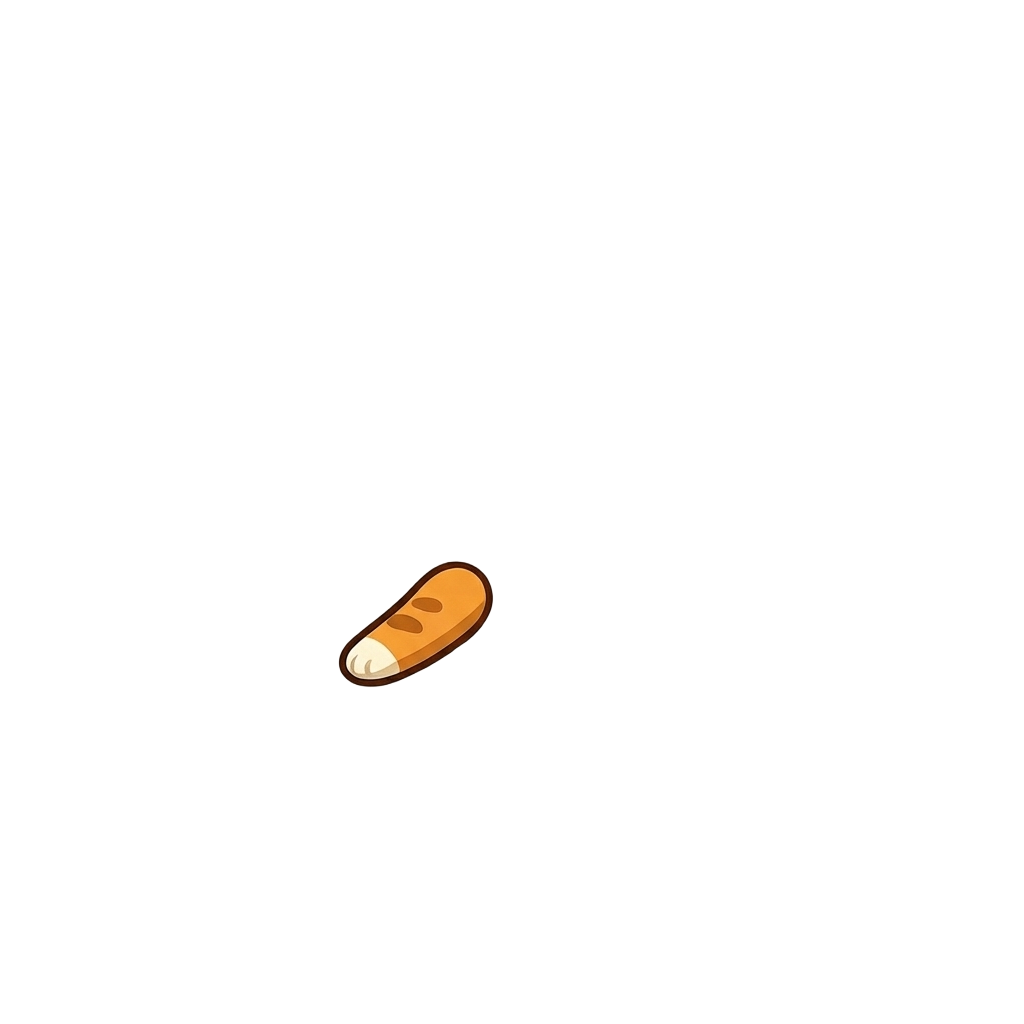
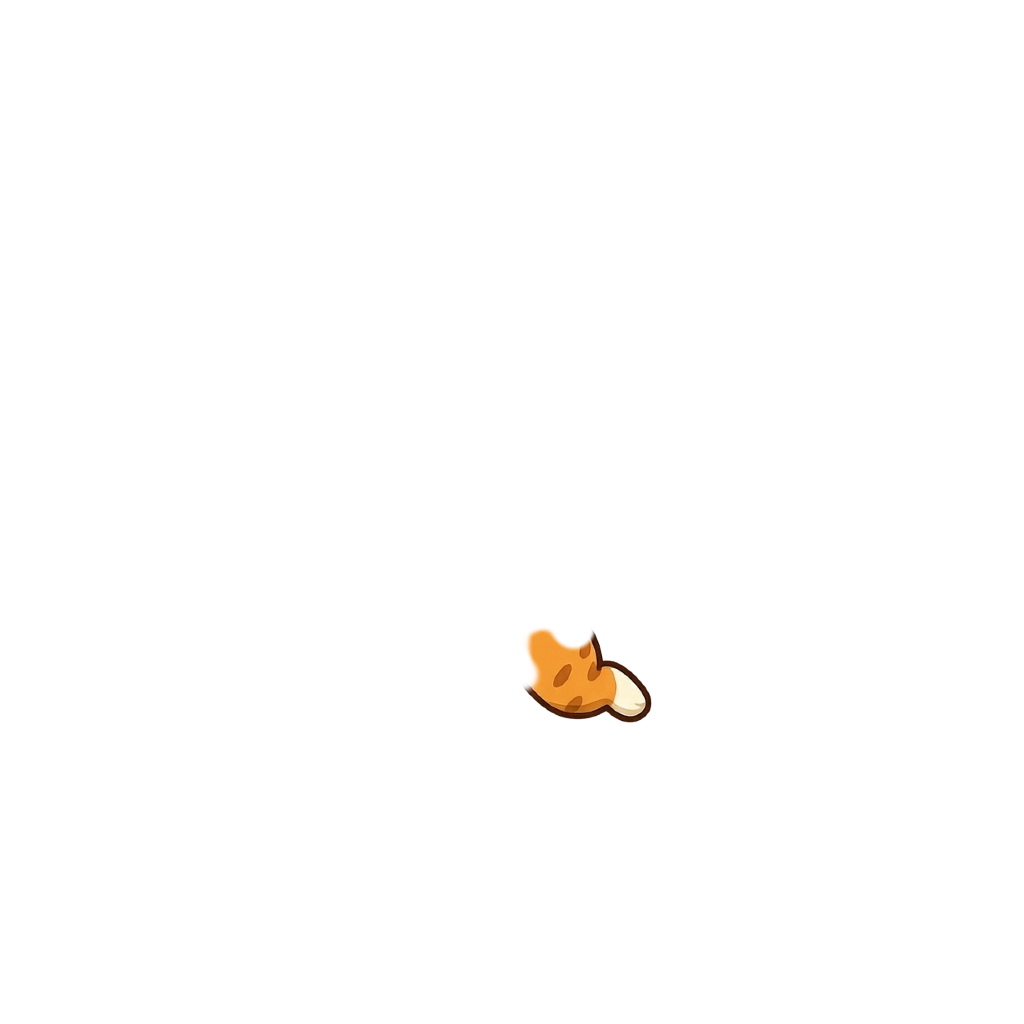
feat: Pet 바람개비 움직임

Changed region(s): [[0.3125, 0.5312, 0.6562, 0.7188]]

diff --git a/src/pages/main/MainPage.tsx b/src/pages/main/MainPage.tsx
@@ -28,6 +28,7 @@ import BodyRecordPrompt from '@components/BodyRecordPrompt';
 import styles from '@styles/MainPage.styles';
 import mainBackGround from '@assets/images/mainBackGround_gym.png'; // MAIN 화면 배경
 import mainBackGroundWide from '@assets/images/mainBackground_track_wide.png';
+import runLegSwirl from '@assets/pet/etc/swirl.png';
 import { SCREEN_WIDTH } from '@styles/dimensions';
 import MapView from 'react-native-maps';
 import useGpsSession, { type GpsSessionSummary } from '@hooks/useGpsSession';
@@ -51,6 +52,7 @@ const KCAL_PER_STEP = 0.04;
 const RUN_BG_TILE_WIDTH = Math.round(SCREEN_WIDTH * 1.8);
 const RUN_BG_LOOP_MS = 8000;
 const RUN_BG_TILE_OFFSETS = [0, 1, 2] as const;
+const RUN_SWIRL_LOOP_MS = 420;
 // Baseline pbf values used only when no body-history pbf is available.
 const MALE_BASELINE_PBF = 17;
 const FEMALE_BASELINE_PBF = 25;
@@ -97,7 +99,11 @@ import {
   stopRunningNotification,
   updateRunningNotification,
 } from '@hooks/useRunningService';
-import { getAndroidApiLevel, STEP_SYNC_MESSAGES, STEP_SYNC_OS_POLICY } from '@utils/stepSyncPolicy';
+import {
+  getAndroidApiLevel,
+  STEP_SYNC_MESSAGES,
+  STEP_SYNC_OS_POLICY,
+} from '@utils/stepSyncPolicy';
 import type { PetType } from 'types/profile';
 import { useMainPetMotion } from './useMainPetMotion';
 import {
@@ -198,7 +204,9 @@ export const MainPage = () => {
         try {
           await setPetId(data.pet.petId);
           // 구버전 응답 등으로 petType이 비어 있을 때만 로컬 캐시를 fallback으로 사용한다.
-          const storedPetType = await AsyncStorage.getItem(PET_TYPE_STORAGE_KEY);
+          const storedPetType = await AsyncStorage.getItem(
+            PET_TYPE_STORAGE_KEY
+          );
           if (storedPetType === 'DOG' || storedPetType === 'CAT') {
             dispatch(userSlice.actions.updatePetType(storedPetType as PetType));
           }
@@ -225,6 +233,7 @@ export const MainPage = () => {
   const [runningElapsedSec, setRunningElapsedSec] = useState(0);
   const [todayRunAccumulatedSec, setTodayRunAccumulatedSec] = useState(0);
   const runBgProgress = useRef(new Animated.Value(0)).current;
+  const runSwirlProgress = useRef(new Animated.Value(0)).current;
 
   const mapRef = useRef<MapView | null>(null);
   const runningStartMsRef = useRef<number | null>(null);
@@ -321,6 +330,29 @@ export const MainPage = () => {
       runBgProgress.stopAnimation();
     };
   }, [isTracking, runBgProgress]);
+
+  useEffect(() => {
+    if (!isTracking) {
+      runSwirlProgress.stopAnimation();
+      runSwirlProgress.setValue(0);
+      return;
+    }
+
+    const loop = Animated.loop(
+      Animated.timing(runSwirlProgress, {
+        toValue: 1,
+        duration: RUN_SWIRL_LOOP_MS,
+        easing: Easing.linear,
+        useNativeDriver: true,
+      })
+    );
+
+    loop.start();
+    return () => {
+      loop.stop();
+      runSwirlProgress.stopAnimation();
+    };
+  }, [isTracking, runSwirlProgress]);
 
   useEffect(() => {
     /**
@@ -754,7 +786,13 @@ export const MainPage = () => {
       Alert.alert(
         '걸음 수 연동 불가',
         `${healthError}\n\n현재 단말에서는 걸음수 자동 동기화를 지원하지 않습니다.`,
-        [{ text: '확인', style: 'default', onPress: () => BackHandler.exitApp() }]
+        [
+          {
+            text: '확인',
+            style: 'default',
+            onPress: () => BackHandler.exitApp(),
+          },
+        ]
       );
       return;
     }
@@ -784,6 +822,14 @@ export const MainPage = () => {
   const runBgTranslateX = runBgProgress.interpolate({
     inputRange: [0, 1],
     outputRange: [0, RUN_BG_TILE_WIDTH],
+  });
+  const runLegSwirlRotate = runSwirlProgress.interpolate({
+    inputRange: [0, 1],
+    outputRange: ['0deg', '360deg'],
+  });
+  const runLegSwirlScale = runSwirlProgress.interpolate({
+    inputRange: [0, 0.5, 1],
+    outputRange: [0.92, 1.08, 0.92],
   });
   return (
     <View style={styles.container}>
@@ -871,22 +917,46 @@ export const MainPage = () => {
                 </Text>
               </View>
             </View>
-            <PetRenderer
-              size={runPetRenderSize}
-              templateId={runPetTemplateId}
-              partTransforms={runPartTransforms}
+            <View
               style={[
-                styles.running_pet,
-                {
-                  transform: [
-                    {
-                      translateY:
-                        runPetRenderSize * PET_FOOT_BOTTOM_OFFSET_RATIO,
-                    },
-                  ],
-                },
+                styles.runningPetLayer,
+                { width: runPetRenderSize, height: runPetRenderSize },
               ]}
-            />
+            >
+              <PetRenderer
+                size={runPetRenderSize}
+                templateId={runPetTemplateId}
+                partTransforms={runPartTransforms}
+                style={[
+                  styles.running_pet,
+                  {
+                    transform: [
+                      {
+                        translateY:
+                          runPetRenderSize * PET_FOOT_BOTTOM_OFFSET_RATIO,
+                      },
+                    ],
+                  },
+                ]}
+              />
+              <Animated.Image
+                source={runLegSwirl}
+                style={[
+                  styles.runningLegSwirl,
+                  {
+                    width: runPetRenderSize * 0.42,
+                    height: runPetRenderSize * 0.42,
+                    right: runPetRenderSize * 0.22,
+                    bottom: -runPetRenderSize * 0.11,
+                    transform: [
+                      { rotate: runLegSwirlRotate },
+                      { scale: runLegSwirlScale },
+                    ],
+                  },
+                ]}
+                resizeMode='contain'
+              />
+            </View>
           </View>
         </View>
       ) : (

diff --git a/AppInner.tsx b/AppInner.tsx
@@ -112,6 +112,32 @@ const wait = (ms: number) =>
   new Promise<void>((resolve) => setTimeout(() => resolve(), ms));
 
 /**
+ * 느리거나 멈춘 비동기 초기화가 앱 첫 진입을 영구 차단하지 않도록 제한 시간을 둔다.
+ */
+const withTimeout = async <T,>(
+  label: string,
+  task: Promise<T>,
+  ms: number
+): Promise<T> => {
+  let timeoutId: ReturnType<typeof setTimeout> | undefined;
+
+  try {
+    return await Promise.race([
+      task,
+      new Promise<T>((_, reject) => {
+        timeoutId = setTimeout(() => {
+          reject(new Error(`${label} timed out after ${ms}ms`));
+        }, ms);
+      }),
+    ]);
+  } finally {
+    if (timeoutId) {
+      clearTimeout(timeoutId);
+    }
+  }
+};
+
+/**
  * FCM 권한 상태를 라벨로 변환한다.
  */
 const getPermissionLabel = (status: number) => {
@@ -217,11 +243,29 @@ function AppInner() {
    * - refreshToken 갱신 및 유저 상태 초기화
    */
   useEffect(() => {
+    if (!loading) {
+      return;
+    }
+
+    const fallbackTimer = setTimeout(() => {
+      console.warn('[Startup] 초기화 제한 시간 초과, 앱 셸을 먼저 표시합니다.');
+      SplashScreen.hide();
+      setLoading(false);
+    }, 7000);
+
+    return () => clearTimeout(fallbackTimer);
+  }, [loading]);
+
+  useEffect(() => {
     const checkAuthStatus = async () => {
       try {
         try {
           // 앱 진입 시 deviceUuid를 항상 확보해 둔다.
-          const deviceUuid = await getDeviceUuid();
+          const deviceUuid = await withTimeout(
+            'getDeviceUuid',
+            getDeviceUuid(),
+            2000
+          );
 
           if (__DEV__) {
             console.log('>>> [FCM][DeviceUuid] device UUID: ', deviceUuid);
@@ -235,7 +279,11 @@ function AppInner() {
         const refreshToken = await EncryptedStorage.getItem('refreshToken');
         if (refreshToken) {
           try {
-            const result = await refreshAccessToken();
+            const result = await withTimeout(
+              'refreshAccessToken',
+              refreshAccessToken(),
+              5000
+            );
             if (result?.serverAccessToken) {
               await EncryptedStorage.setItem(
                 'serverAccessToken',
@@ -261,7 +309,11 @@ function AppInner() {
           }
         }
         try {
-          const petId = await AsyncStorage.getItem('petId');
+          const petId = await withTimeout(
+            'getPetId',
+            AsyncStorage.getItem('petId'),
+            1000
+          );
           if (petId) {
             dispatch(userSlice.actions.setPet(Number(petId)));
           }

diff --git a/src/pages/main/useMainPetMotion.ts b/src/pages/main/useMainPetMotion.ts
@@ -239,18 +239,15 @@ export const useMainPetMotion = ({
 
   const runPartTransforms: Record<string, PartTransformInput> = useMemo(() => {
     const isHighPbf = effectivePbf >= 25;
-    const legSpreadFactor = isHighPbf ? 0.84 : 1;
-    // 고PBF 구간에서 팔 체형 변화가 덜 보이는 문제를 보정한다.
-    const runArmFatBoost = isHighPbf ? 1.25 : 1;
+    const runArmFatBoost = isHighPbf ? 1.15 : 1;
     const runTorsoScaleX = 1 + (torsoMorph.scaleX - 1) * 1.35;
-    const runTorsoScaleY = 1 + (torsoMorph.scaleY - 1) * 1.2;
-    const armFatScaleX = 1 + torsoMorph.t * 0.18 * runArmFatBoost;
-    const armFatScaleY = 1 + torsoMorph.t * 0.13 * runArmFatBoost;
-    const legFatScaleX = 1 + torsoMorph.t * 0.05;
-    const legFatScaleY = 1 + torsoMorph.t * 0.035;
-    const faceFatScaleX = 1 + torsoMorph.t * 0.12;
-    const faceFatScaleY = 1 + torsoMorph.t * 0.1;
-    const runLegMorphOffsetY = petRenderSize * 0.0025 * torsoMorph.t;
+    const runTorsoScaleY = 1 + (torsoMorph.scaleY - 1) * 1.14;
+    const armFatScaleX = 1 + torsoMorph.t * 0.14 * runArmFatBoost;
+    const armFatScaleY = 1 + torsoMorph.t * 0.1 * runArmFatBoost;
+    const faceFatScaleX = 1 + torsoMorph.t * 0.08;
+    const faceFatScaleY = 1 + torsoMorph.t * 0.07;
+    const hiddenLegScale = 0.01;
+    const hiddenLegOffsetY = petRenderSize * 0.24;
 
     // readonly tuple -> mutable array 변환 후 interpolate에 전달한다.
     const runPhase = toMutableRange(PET_RUN_MOTION.phase);
@@ -346,18 +343,16 @@ export const useMainPetMotion = ({
         scaleY: armFatScaleY,
       },
       leg_left: {
-        translateX: Animated.multiply(limbRightX, legSpreadFactor),
-        translateY: runLegMorphOffsetY,
+        translateY: hiddenLegOffsetY,
         rotateDeg: legLeftRotate,
-        scaleX: legFatScaleX,
-        scaleY: legFatScaleY,
+        scaleX: hiddenLegScale,
+        scaleY: hiddenLegScale,
       },
       leg_right: {
-        translateX: Animated.multiply(limbLeftX, legSpreadFactor),
-        translateY: runLegMorphOffsetY,
+        translateY: hiddenLegOffsetY,
         rotateDeg: legRightRotate,
-        scaleX: legFatScaleX,
-        scaleY: legFatScaleY,
+        scaleX: hiddenLegScale,
+        scaleY: hiddenLegScale,
       },
       tail: {
         translateX: tailX,

diff --git a/src/assets/pet/petAssetRegistry.ts b/src/assets/pet/petAssetRegistry.ts
@@ -52,20 +52,20 @@ const bagiccatV1MainPartAssets: Record<string, ImageSourcePropType> = {
 const bagiccatV1RunPartAssets: Record<string, ImageSourcePropType> = {
   'cat_v1_00_tail_none.png': require('./bagic_cat/run/cat_v1_00_tail_none.png'),
   'cat_v1_02_arm_left.png': require('./bagic_cat/run/cat_v1_02_arm_left.png'),
-  'cat_v1_02_leg_left.png': require('./bagic_cat/run/cat_v1_02_leg_left.png'),
+  'cat_v1_02_arm_right.png': require('./bagic_cat/run/cat_v1_02_arm_right.png'),
   'cat_v1_03_torso_none.png': require('./bagic_cat/run/cat_v1_03_torso_none.png'),
-  'cat_v1_05_arm_right.png': require('./bagic_cat/run/cat_v1_05_arm_right.png'),
+  'cat_v1_04_leg_left.png': require('./bagic_cat/run/cat_v1_04_leg_left.png'),
   'cat_v1_05_leg_right.png': require('./bagic_cat/run/cat_v1_05_leg_right.png'),
   'cat_v1_07_face_none.png': require('./bagic_cat/run/cat_v1_07_face_none.png'),
 };
 
 const browncatV1RunPartAssets: Record<string, ImageSourcePropType> = {
   'browncat_v1_00_tail_none.png': require('./brown_cat/run/browncat_v1_00_tail_none.png'),
-  'browncat_v1_01_leg_left.png': require('./brown_cat/run/browncat_v1_01_leg_left.png'),
+  'browncat_v1_03_leg_left.png': require('./brown_cat/run/browncat_v1_03_leg_left.png'),
   'browncat_v1_02_torso_none.png': require('./brown_cat/run/browncat_v1_02_torso_none.png'),
-  'browncat_v1_03_leg_right.png': require('./brown_cat/run/browncat_v1_03_leg_right.png'),
+  'browncat_v1_05_leg_right.png': require('./brown_cat/run/browncat_v1_05_leg_right.png'),
   'browncat_v1_01_arm_left.png': require('./brown_cat/run/browncat_v1_01_arm_left.png'),
-  'browncat_v1_05_arm_right.png': require('./brown_cat/run/browncat_v1_05_arm_right.png'),
+  'browncat_v1_01_arm_right.png': require('./brown_cat/run/browncat_v1_01_arm_right.png'),
   'browncat_v1_06_neckRuff_none.png': require('./brown_cat/run/browncat_v1_06_neckRuff_none.png'),
   'browncat_v1_07_face_none.png': require('./brown_cat/run/browncat_v1_07_face_none.png'),
   'browncat_v1_08_eye_left.png': require('./brown_cat/run/browncat_v1_08_eye_left.png'),

diff --git a/src/pages/main/petMotionConfig.ts b/src/pages/main/petMotionConfig.ts
@@ -27,18 +27,18 @@ type PetRunMotionConfig = {
 
 export const PET_RUN_MOTION = {
   phase: [0, 0.5, 1] as const,
-  limbLeftX: [-5, 5, -5] as const,
-  limbRightX: [5, -5, 5] as const,
-  torsoX: [-1, 1, -1] as const,
-  torsoY: [0, -1, 0] as const,
-  faceX: [-1.5, 1.5, -1.5] as const,
-  faceY: [0, -0.5, 0] as const,
-  armLeftRotate: ['-8deg', '8deg', '-8deg'] as const,
-  armRightRotate: ['8deg', '-8deg', '8deg'] as const,
-  legLeftRotate: ['12deg', '-12deg', '12deg'] as const,
-  legRightRotate: ['-12deg', '12deg', '-12deg'] as const,
-  tailRotate: ['-10deg', '10deg', '-10deg'] as const,
-  tailX: [-1, 1, -1] as const,
-  neckRuffX: [-1, 1, -1] as const,
-  neckRuffRotate: ['-1.5deg', '1.5deg', '-1.5deg'] as const,
+  limbLeftX: [-3, 3, -3] as const,
+  limbRightX: [3, -3, 3] as const,
+  torsoX: [-0.5, 0.5, -0.5] as const,
+  torsoY: [0, -0.5, 0] as const,
+  faceX: [-0.5, 0.5, -0.5] as const,
+  faceY: [0, -0.2, 0] as const,
+  armLeftRotate: ['-22deg', '18deg', '-22deg'] as const,
+  armRightRotate: ['18deg', '-22deg', '18deg'] as const,
+  legLeftRotate: ['0deg', '0deg', '0deg'] as const,
+  legRightRotate: ['0deg', '0deg', '0deg'] as const,
+  tailRotate: ['-6deg', '6deg', '-6deg'] as const,
+  tailX: [-0.5, 0.5, -0.5] as const,
+  neckRuffX: [-0.3, 0.3, -0.3] as const,
+  neckRuffRotate: ['-0.5deg', '0.5deg', '-0.5deg'] as const,
 } as const satisfies PetRunMotionConfig;

diff --git a/src/styles/MainPage.styles.ts b/src/styles/MainPage.styles.ts
@@ -240,10 +240,21 @@ export default StyleSheet.create({
   },
   running_pet: {
     position: 'absolute',
-    bottom: PET_BOTTOM_FROM_START,
+    bottom: 0,
     alignSelf: 'center',
     resizeMode: 'contain',
     zIndex: 2,
+  },
+  runningPetLayer: {
+    position: 'absolute',
+    bottom: PET_BOTTOM_FROM_START,
+    alignSelf: 'center',
+    zIndex: 2,
+  },
+  runningLegSwirl: {
+    position: 'absolute',
+    zIndex: 10,
+    opacity: 0.88,
   },
   countdownOverlay: {
     position: 'absolute',
